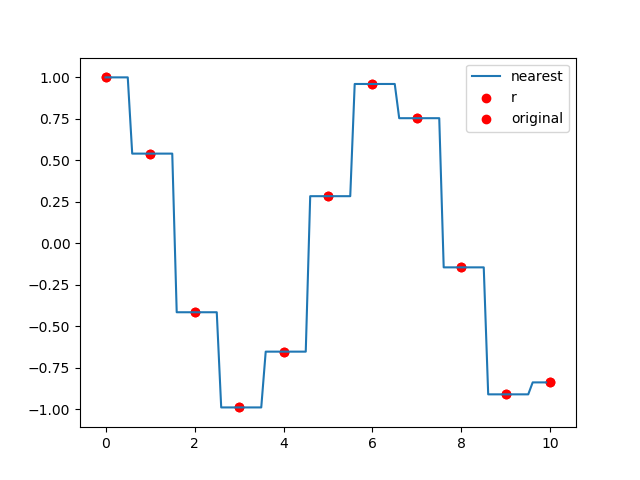
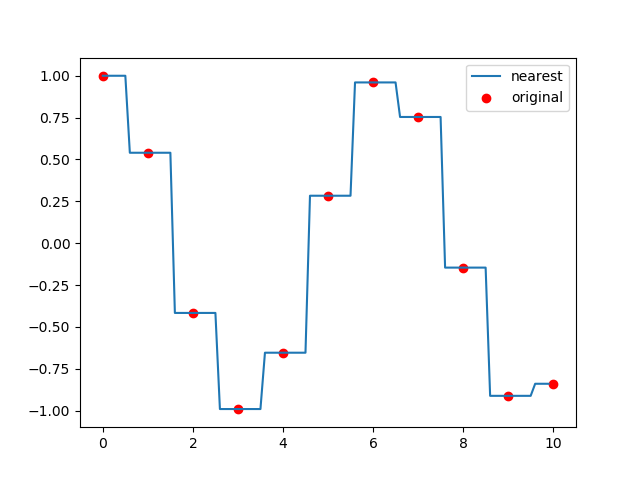
线性回归

diff --git a/source/_posts/使用scipy进行一元线性回归.md b/source/_posts/使用scipy进行一元线性回归.md
@@ -1,0 +1,52 @@
+---
+id: 4
+title: 使用scipy进行一元线性回归
+author: Titor
+tags: 
+    - python
+    - scipy
+    - 科学计算
+    - snippets
+---
+
+
+线性回归是一个使用频率较高的计算。对于基本的一元线性回归，scipy中已经封装好了相应的方法。
+
+```python
+import numpy as np
+from scipy.stats import linregress
+
+x = np.arange(10)
+y = 3 * x + 1
+
+result = linregress(x, y)
+```
+
+`linregress`使用函数来进行线性回归的计算。
+
+如上代码`result`为回归的结果
+
+```
+LinregressResult(slope=3.0, intercept=2.0, rvalue=1.0, pvalue=4.375000000000076e-80, stderr=0.0)
+```
+
+返回的几个参数的解释
+
+| 参数 | 意义 |
+| --- | --- |
+| slope | 斜率 |
+| intercept | 截距 |
+| rvalue | 相关系数 |
+| pvalue | 双边p值 |
+| stderr | 标准误差 |
+
+使用回归得到的斜率跟截距计算新的数据
+
+```python
+new_y = x * result.slope + result.intercept
+```
+
+![linregress](/media/linregress.png)
+
+最终的结果如图
+

diff --git a/source/_posts/使用scipy进行一维插值.md b/source/_posts/使用scipy进行一维插值.md
@@ -1,4 +1,5 @@
 ---
+id: 3
 title: 使用scipy进行一维插值运算
 author: Titor
 tags: 
@@ -13,6 +14,8 @@ tags:
 如：每隔1小时采集一次地面温度，但是由于各种意外情况，导致一份数据中很多个时刻是没有数据的，也就是存在不定数量的的空缺点。
 
 这时候就需要通过数学的方法对空缺的数值进行补全。
+
+<!--more-->
 
 来看一段来自wikipedia的描述
 
@@ -30,8 +33,6 @@ import matplotlib.pyplot as plt
 # 原始数据
 x = np.arange(0, 11)
 y = np.cos(x)
-
-plt.scatter(x, y, color='r', label="r")
 
 # 插值数据
 new_x = np.arange(0, 10, 0.1)

diff --git a/source/_posts/在无界面环境下运行matplotlib.md b/source/_posts/在无界面环境下运行matplotlib.md
@@ -1,4 +1,5 @@
 ---
+id: 2
 title: 在无界面环境下运行matplotlib
 author: Titor
 tags: 

diff --git a/source/_posts/Python元类.md b/source/_posts/Python元类.md
@@ -1,4 +1,5 @@
 ---
+id: 1
 title: Python元类
 author: Titor
 tags: 
